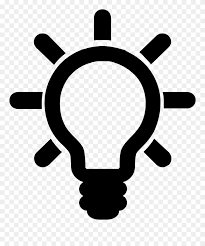
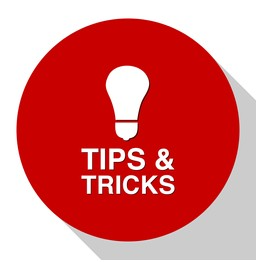
changed all to new

diff --git a/frontend/src/app/analyse-test-impact/analyse-test-impact-old.component.html b/frontend/src/app/analyse-test-impact/analyse-test-impact-old.component.html
@@ -5,7 +5,7 @@
         <mat-card class="testcard">
           <mat-card-content class="mat-card_content">
             <span class="first_heading">Tips & Tricks</span>
-            <div class="image_div"><img class="image_size" style="width:150px;height:150px;" src="assets/images/tips.png" alt="sort"/></div>
+            <div class="image_div"><img class="image_size" src="assets/images/Tips&Tricks.png" alt="sort"/></div>
             <hr/>
             <ul id="Create_test">
               <li>
@@ -191,8 +191,8 @@
           <mat-card class="testcard">
             <mat-card-content class="mat-card_content">
               <span class="first_heading">Insights</span>
-              <div class="image_div" style="text-align: center;"><img class="image_size"  style="width:200px;height:150px;"
-                                                                      src="https://thumbs.dreamstime.com/b/insights-complex-like-puzzle-pictured-as-word-insights-puzzle-pieces-to-show-insights-can-be-difficult-needs-164221080.jpg" alt="sort"/>
+              <div class="image_div" style="text-align: center;"><img class="image_size"
+                                                                      src="assets/images/Insights.png" alt="sort"/>
               </div>
               <p class="second_p">The overall test impact shows that the change has a positive impact on the
                 market

diff --git a/frontend/src/app/login/login-old.component.html b/frontend/src/app/login/login-old.component.html
@@ -2,17 +2,17 @@
 	<nav class="bg-black navbar-expand-lg navbar-dark bg-dark">
 		<div class="container-fluid">
 			<div class="row text-center" style="height: 60px;margin: 0;">
-				<div class="col-md-3" style="background-color: #F68F1D;border-right: 5px solid #fff;height: 60px;">
+				<div class="col-md-3" style="background-color: #E6A000;border-right: 5px solid #fff;height: 60px;">
 					<a href="login">
 						<img src="assets/images/home-run.png" alt="mcd"
 							style="height: 30px;margin: 0px 19px 15px -10%;cursor: pointer;" />
-					</a> 
+					</a>
 					<a class="navbar-brand" href="login" translate style="margin: 12px 0 0 0;">
-						<span style=""><b style="font-size: 25px;font-weight: 920;">T&L Tool</b></span>
+						<span style="color: #0000A0;"><b style="font-size: 25px;font-weight: 920;">T&L Tool</b></span>
 					</a>
 				</div>
 				<div class="col-md-7">
-					<span class="head-text"><a class="navbar-brand"><b style="font-size: 25px;">T&L Scenario Tool</b></a></span>
+					<span class="head-text"><a class="navbar-brand"><b style="color: #E6A000;font-size: 25px;">T&L Scenario Tool</b></a></span>
 					<!-- <span><b style="color: #fff;font-size: 13px;margin: 0 0% 2% -1.95%;">Netherlands</b></span> -->
 				</div>
 				<div class="col-md-2">

diff --git a/frontend/src/app/sidebar/sidebar-old.component.scss b/frontend/src/app/sidebar/sidebar-old.component.scss
@@ -1,9 +1,6 @@
 // .text-color{
 //   color: #ffffff;
 // }
-// .sidebar_menu{
-//   background-color: rgba(0, 0, 0, 0.85) !important;
-// }
 
 .mat-list-base .mat-list-item .mat-list-item-content, .mat-list-base .mat-list-option .mat-list-item-content {
   padding: 0 22px !important;
@@ -20,11 +17,11 @@
 
 .sidebar_border_active{
   background-color: #2fd1aa;
-  color: rgba(0, 0, 0, 0.85);
+  color: #000091;
   display: flex;
   width: 100%;
   border-radius: 5px;
-  padding: 11px 11px 8px 12px; 
+  padding: 11px 11px 8px 12px;
 }
 
 .sidebar_border {
@@ -36,12 +33,11 @@
 // }
 .sidebar_border_inactive{
   margin-left: 7px;
-  color: white;
+  color: #b6b8d4;
 }
 
 ::ng-deep .dropdown-menu{
-  border-radius: 0.5rem!important;
-  color:white;
+  border-radius: 0.5rem!important
 }
 
 ::ng-deep.ngx-select__item_active{
@@ -51,8 +47,8 @@
 
 ::ng-deep #sidebar .ngx-select__toggle{
   border-radius: 11px!important;
- 
-  color: #4c596b !important;
+  background-color: #000091 !important;
+  color: #b6b8d4 !important;
 }
 
 
@@ -89,5 +85,3 @@
 ::ng-deep .ngx-select__toggle-buttons{
   font-size: 0.75rem!important;
 }
-
-

diff --git a/frontend/src/app/defaulthome/defaulthome.component.html b/frontend/src/app/defaulthome/defaulthome.component.html
@@ -1,0 +1,27 @@
+<header class="header-margin" style="height: 70px;">
+	
+			
+				<div class="" style="display:flex;justify-content:center;align-items:center;gap:5px;background-color: #F68F1D;border-right: 5px solid #fff;height: 60px;">
+					<a href="login">
+						<!-- <img src="assets/images/home-run.png" alt="mcd"
+							style="height: 25px;color:white;cursor: pointer;margin-top: 10px;" /> -->
+					</a> 
+					<a class="navbar-brand" href="login" translate style="margin: 12px 0 0 0;">
+						<span style=""><b style="color:white;font-size: 25px;font-weight: 920;margin-bottom: 15px;"></b></span>
+					</a>
+				</div>  
+				  
+				
+			
+	
+</header>
+
+<div style="display: flex; justify-content:center; align-items: center;height:50vh;">
+	<div style=" ">
+		<div style="font-size: 36px;">
+			Welcome to the accelerator home !
+		 </div>
+		<a href="/"> <button style="margin-left:250px;margin-top:10px;padding:5px;">Lets start</button></a>
+	</div>
+</div>
+

diff --git a/frontend/src/app/home/home-old.component.scss b/frontend/src/app/home/home-old.component.scss
@@ -1,0 +1,38 @@
+
+@mixin auth($theme) {
+  $primary: map-get($theme, primary);
+  $accent: map-get($theme, accent);
+  $warn: map-get($theme, warn);
+
+
+  .sidenav{
+    background-color:#000091;
+    overflow: hidden;
+    position: relative;
+    width: 16rem;
+  }
+  .drawer{
+    background: mat-color($primary,400);
+    overflow: hidden;
+    position: relative;
+    width: 80px;
+  }
+  [no-over-flow] {
+    overflow: hidden;
+  }
+  .router-outlet{
+    position: relative;padding: 0px 5px;
+  }
+  .spacer {
+    width: 100%;
+  }
+
+  .logo{
+    font-size: 26px;font-family: Roboto;color:white;margin-top: 8px;
+  }
+}
+.router_container{padding-left: 1.5rem}
+
+::ng-deep.mat-drawer-inner-container{
+  overflow: hidden!important;
+}

diff --git a/frontend/src/app/defaulthome/defaulthome.component.spec.ts b/frontend/src/app/defaulthome/defaulthome.component.spec.ts
@@ -1,0 +1,25 @@
+import { ComponentFixture, TestBed } from '@angular/core/testing';
+
+import { DefaulthomeComponent } from './defaulthome.component';
+
+describe('DefaulthomeComponent', () => {
+  let component: DefaulthomeComponent;
+  let fixture: ComponentFixture<DefaulthomeComponent>;
+
+  beforeEach(async () => {
+    await TestBed.configureTestingModule({
+      declarations: [ DefaulthomeComponent ]
+    })
+    .compileComponents();
+  });
+
+  beforeEach(() => {
+    fixture = TestBed.createComponent(DefaulthomeComponent);
+    component = fixture.componentInstance;
+    fixture.detectChanges();
+  });
+
+  it('should create', () => {
+    expect(component).toBeTruthy();
+  });
+});

diff --git a/frontend/environments/environment.ts b/frontend/environments/environment.ts
@@ -8,9 +8,9 @@
 export const environment = {
   production: false,
   version: 1 + '-dev',
-  serverUrl: 'https://accelerator-dev.tigeranalytics.com/RTMFastBackend/',
-  liveUrl: 'https://accelerator-dev.tigeranalytics.com/RTMFastBackend/',
-  reportPath: 'https://accelerator-dev.tigeranalytics.com/RTMFastBackend/report/',
+  serverUrl: 'https://accelerators.tigeranalytics.com/RTMFastBackend/',
+  liveUrl: 'https://accelerators.tigeranalytics.com/RTMFastBackend/',
+  reportPath: 'https://accelerators.tigeranalytics.com/RTMFastBackend/report/',
   defaultLanguage: 'en-US',
   supportedLanguages: ['en-US', 'fr-FR']
 };

diff --git a/frontend/src/environments/environment.prod.ts b/frontend/src/environments/environment.prod.ts
@@ -1,9 +1,9 @@
 export const environment = {
   production: true,
   version: 1,
-  serverUrl: 'https://fast-tool-dev-be.azurewebsites.net/',
-  liveUrl: 'https://fast-tool-dev-be.azurewebsites.net/',
-  reportPath: 'https://fast-tool-dev-be.azurewebsites.net/',
+  serverUrl: 'https://accelerator-dev.tigeranalytics.com/RTMFastBackend/',
+  liveUrl: 'https://accelerator-dev.tigeranalytics.com/RTMFastBackend/',
+  reportPath: 'https://accelerator-dev.tigeranalytics.com/RTMFastBackend/',
   defaultLanguage: 'en-US',
   supportedLanguages: ['en-US', 'fr-FR']
-};
+};  

diff --git a/frontend/src/app/create-test/create-test-old.component.html b/frontend/src/app/create-test/create-test-old.component.html
@@ -61,7 +61,7 @@
           <mat-card class="testcard">
             <mat-card-content class="mat-card_content">
               <span class="first_heading">Tips & Tricks</span>
-              <div class="image_div"><img class="image_size" src="assets/images/tips.png" alt="sort"/></div>
+              <div class="image_div"><img class="image_size" src="assets/images/Tips&Tricks.png" alt="sort"/></div>
               <hr/>
               <ul id="Create_test">
                 <li *ngFor="let tip of tipsDataStr">

diff --git a/frontend/src/app/app-routing-old.module.ts b/frontend/src/app/app-routing-old.module.ts
@@ -1,11 +1,9 @@
 import { NgModule } from '@angular/core';
 import { Routes, RouterModule, PreloadAllModules } from '@angular/router';
-import { DefaulthomeComponent } from './defaulthome/defaulthome.component';
 
 const routes: Routes = [
   { path: '', loadChildren: () => import('./home/home.module').then(m => m.HomeModule)},
   { path: 'login', redirectTo: '/login', pathMatch: 'full' },
-  {path: 'home', component: DefaulthomeComponent},
   { path: '**', redirectTo: '', pathMatch: 'full' }
 ];
 

diff --git a/frontend/src/app/dashboard/dashboard-old.component.html b/frontend/src/app/dashboard/dashboard-old.component.html
@@ -5,7 +5,7 @@
         <div class="col-md-6 col-lg-6 col-sm-12">
           <mat-card style="height: 7rem;">
             <div style="font-weight: bold;font-size: 1.2rem">
-              Hi {{firstName | titlecase}}, welcome back
+              Hi {{firstName | titlecase}}, welcome back!
             </div>
             <div class="pt-2 admin_dash_text" *ngIf="lastRecordCompleted">
               Test #{{lastRecordCompleted.test_name}} was

diff --git a/frontend/src/app/login/login-old.component.scss b/frontend/src/app/login/login-old.component.scss
@@ -92,7 +92,7 @@
   width: 58%;
 }
 .loginbutton {
-  background-color: rgba(0, 0, 0, 0.85) !important;
+  background-color: #1846a0 !important;
   color: #fff;
 }
 .bordernone {
@@ -122,7 +122,7 @@ ul li::before {
   margin-top: 3px;
 }
 .bg-black {
-  background-color: rgba(0, 0, 0, 0.85) !important;
+  background-color: #0000a0 !important;
 }
 .collapse:not(.show) {
   display: block;
